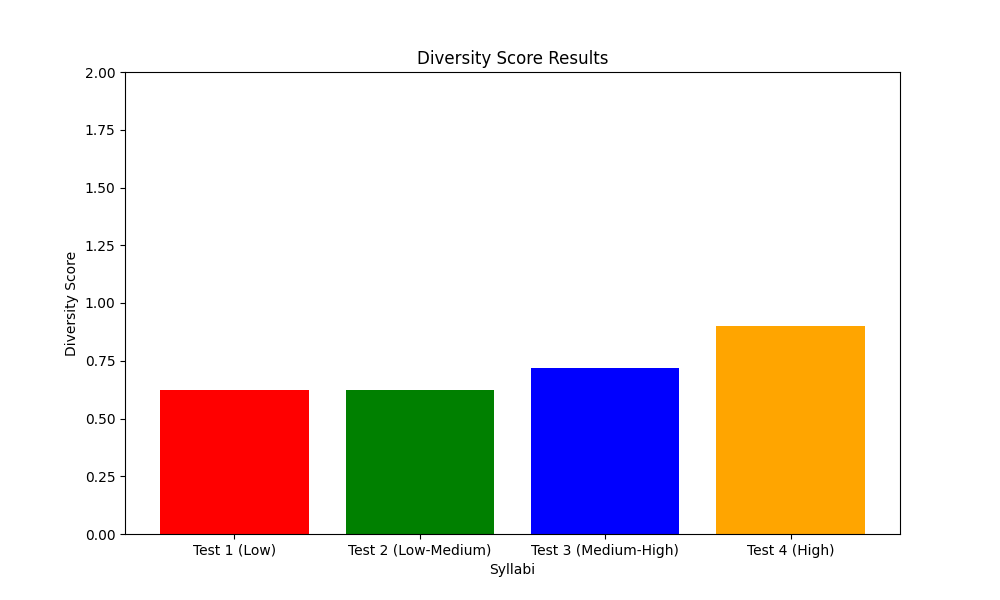
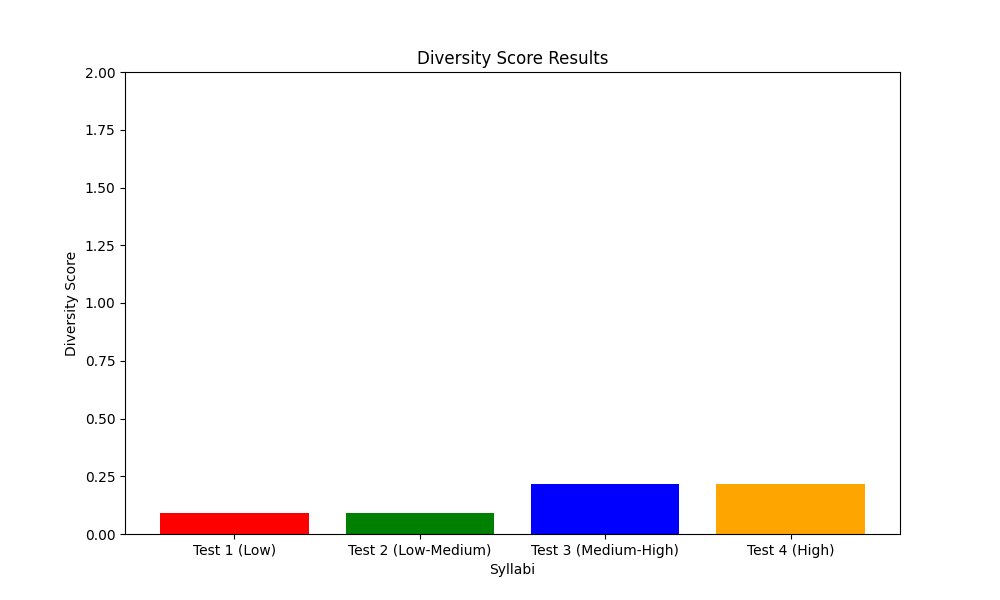
fixed variables

diff --git a/backend/pipeline.py b/backend/pipeline.py
@@ -40,7 +40,7 @@ class SyllabiPipeline:
         # print(syllabus_lccn)
         
         self.diversity_topics = ['gay', 'homosexuality', 'lgbt', 'bisexual', 'lesbian', 'transgender', 'queer', 'homophobia', 'same-sex']
-        self.diversity_topics = self._clean_topics(self.diversity_topics)
+        # self.diversity_topics = self._clean_topics(self.diversity_topics)
 
         self.prop_diversity = self._get_prop_occurrences(self.diversity_topics)
         
@@ -55,7 +55,7 @@ class SyllabiPipeline:
         #self.all_props = {**self.prop_discipline, **self.prop_diversity} #not good if any of prop_disc.keys() = prop_div.keys()
         
         if diversity_measure == 'raos_entropy':
-            self.diversity_score = self.raos_entropy(self.prop_discipline, self.prop_diversity)
+            self.diversity_score = self.raos_entropy()
 
         elif diversity_measure == 'jaccard_distance':
             self.diversity_score = self.jaccard_distance(self._clean_topics(self.syllabus_topics, 'by words'), self._clean_topics(self.diversity_topics, 'by words'))
@@ -65,9 +65,7 @@ class SyllabiPipeline:
 
             
             
-            
-        self.diversity_score = self.raos_entropy(self.all_props)
-            
+                        
             
     def _get_tags_for_syllabus(self):
         """
@@ -342,6 +340,7 @@ class SyllabiPipeline:
         """
 
         #make proportions
+        all_tags = self._clean_topics(topics_lst)
         prop = Counter(all_tags) 
         prop = dict(prop.most_common(top_n))
         total = sum(prop.values())
@@ -459,8 +458,8 @@ class SyllabiPipeline:
 
         for i, cat_i in enumerate(tags):
             for j, cat_j in enumerate(tags):
-                p_i = all_cats.get(cat_i, 0) # Probability for category i (fall through if 0)
-                p_j = all_cats.get(cat_j, 0)
+                p_i = self.prop_diversity.get(cat_i, 0) # Probability for category i (fall through if 0)
+                p_j = self.prop_discipline.get(cat_j, 0)
                 #print(p_i, p_j)
                 # cosine distance (1 - cosine similarity)
                 distance = distance_matrix[i, j]
@@ -515,21 +514,21 @@ class SyllabiPipeline:
             except:
                 #print(book)
                 book.update({'isbn': ''})
-            # book['subject'] = [x.lower() for x in book['subject']]
+            book['subject'] = [x.lower() for x in book['subject']]
             # #book['subject'] = [sub for sub in [x for x in book['subject']] if sub in syll_topics or sub in diversity_topics] #not working
             # book['subject'] = [x for x in book['subject'] if x in syll_topics or any(sub in x for sub in diversity_topics)] #if it doesn't contain the tags for whatever reason
             # book['subject'] = [sub for sub in self.syllabus_topics if any(sub in x for x in book['subject'] or any(x in sub for sub in diversity_topics))]
             # book['subject'] += [sub for sub in diversity_topics if any(sub in x for x in book['subject'])]
             book['author_name'] = ', '.join(book['author_name'])
             
-            isbn_dict = book['isbn']
-            lccn = self._get_lccn_for_syllabus(pd.DataFrame({'isbn': [isbn_dict]}))
-            if not lccn or lccn[0] == None:
-                continue
-            lccn = book['lcc'][0]
-            book['topic'] = lookup_meaning(lccn) #instead of directly using subjects, check it against how we define topics? potentially unnec computation
-            if book['topic']:
-                valid_suggestions.append(book)
+            # isbn_dict = book['isbn']
+            # lccn = self._get_lccn_for_syllabus(pd.DataFrame({'isbn': [isbn_dict]}))
+            # if not lccn or lccn[0] == None:
+            #     continue
+            # lccn = book['lcc'][0]
+            # book['topic'] = lookup_meaning(lccn) #instead of directly using subjects, check it against how we define topics? potentially unnec computation
+            # if book['topic']:
+            #     valid_suggestions.append(book)
 
         return valid_suggestions
     
